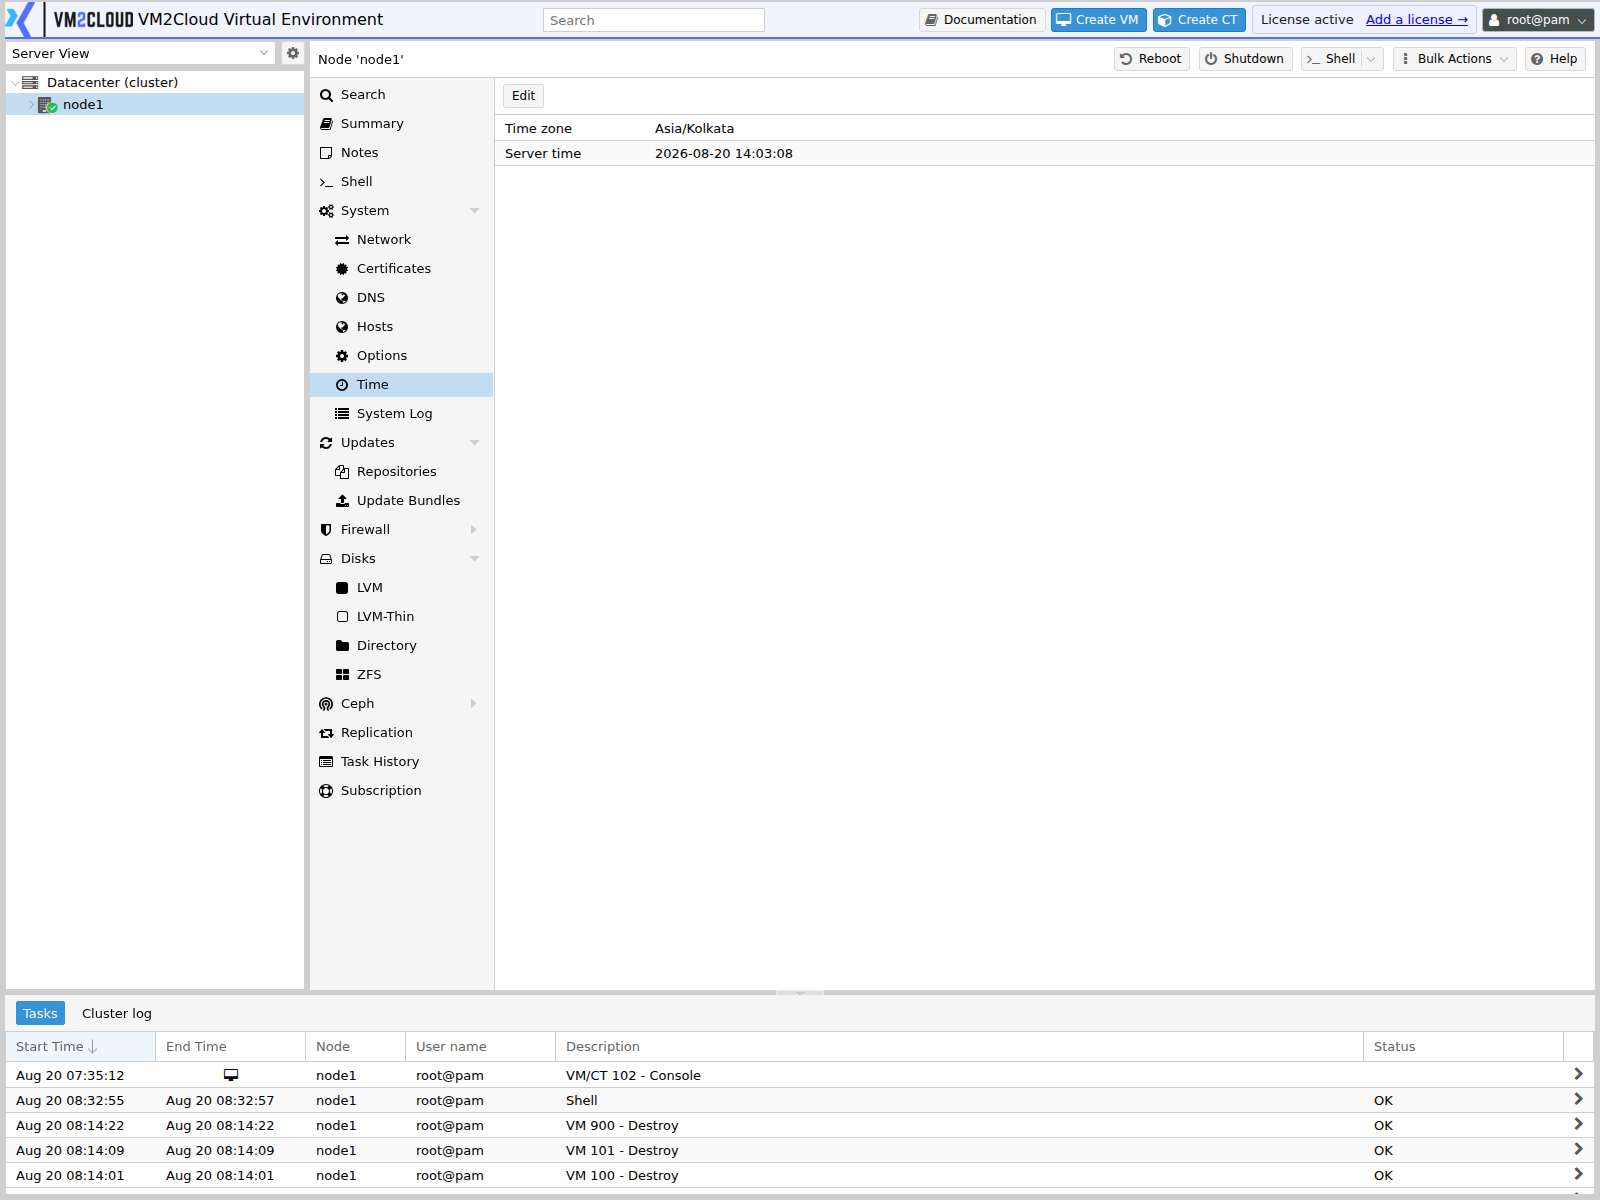
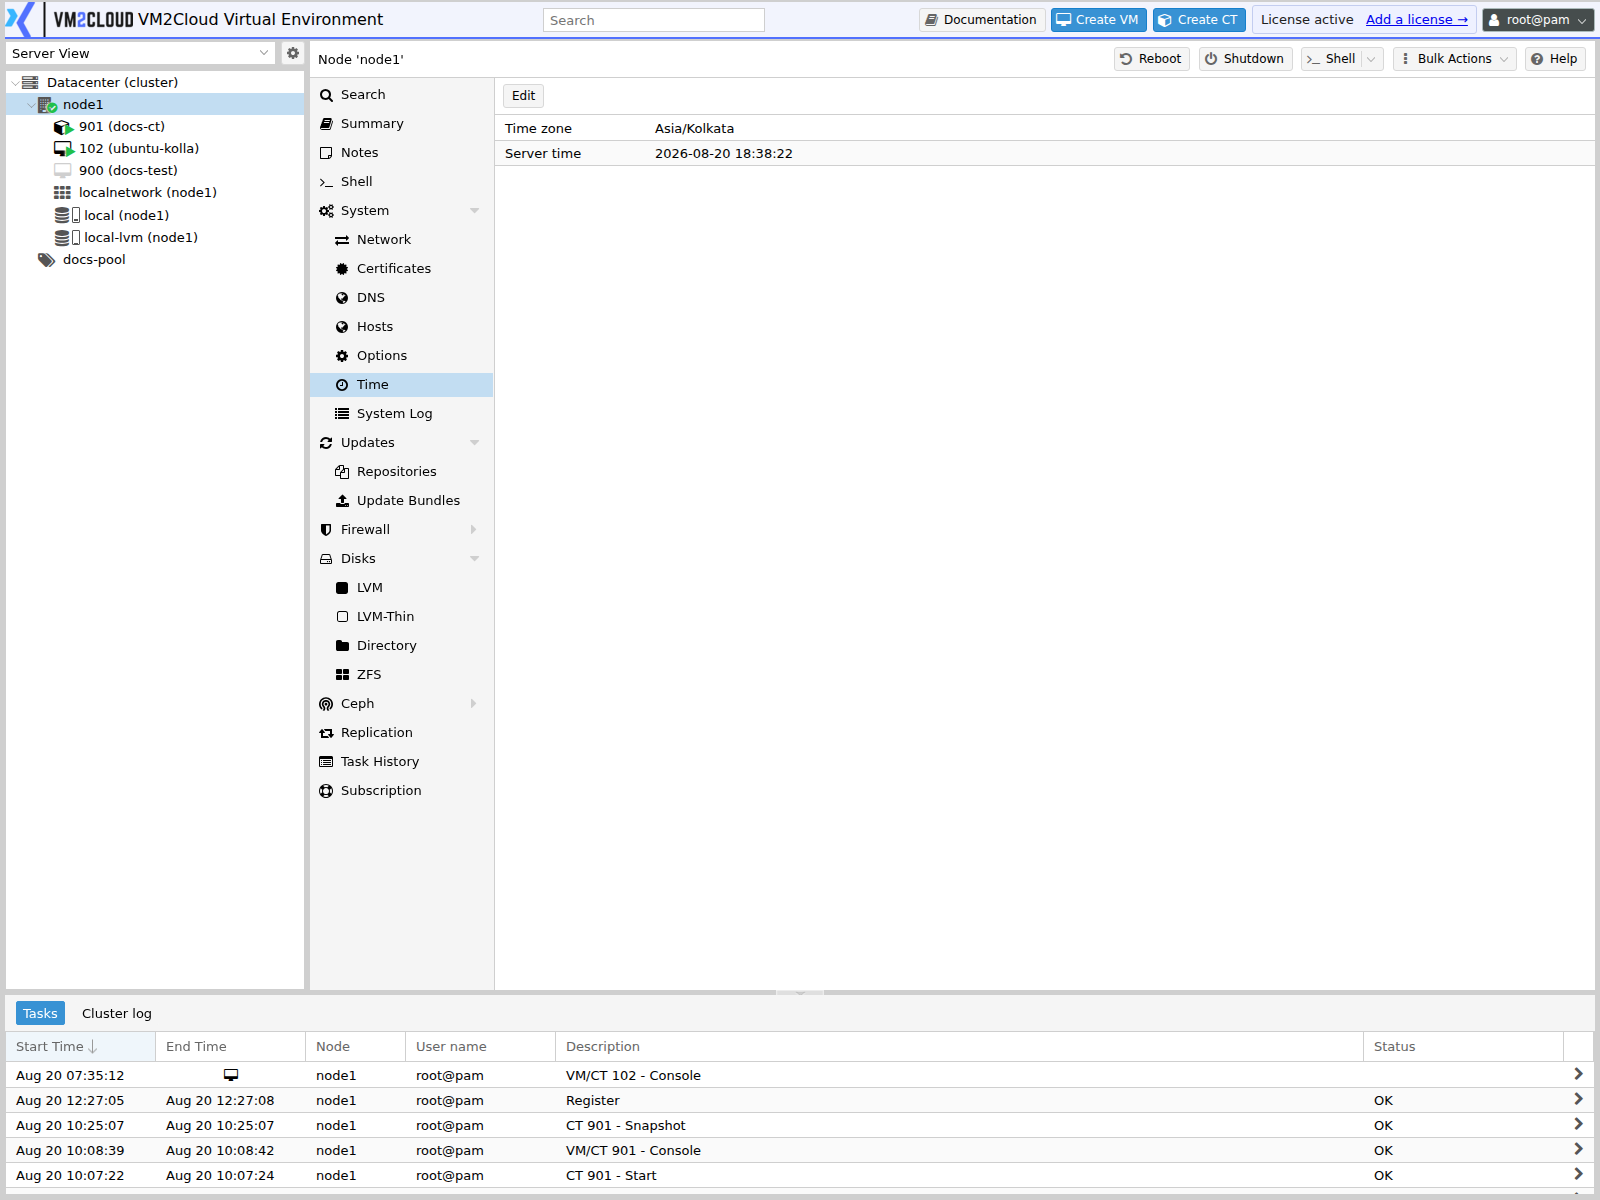
Time panel has no NTP section; capture My Settings
The node Time panel holds exactly two rows - Time zone and Server time - and a
single Edit control. There is no Network Time section, no NTP server list, and
no synchronisation status anywhere in the interface.

Time-and-NTP.md had five screenshots and three procedure sections describing
that interface. All removed, and the page now ends with what is actually true:
synchronisation is handled by the system time daemon and configured from the
shell, with timedatectl as the way to check it. The point that a skewed clock
surfaces as a join failure or a certificate error, rather than as an obvious
time problem, is kept - that is the part worth knowing.

My Settings is a dialog rather than a panel, holding language, colour theme,
and resource-tree preferences. Password and two-factor are separate entries on
the same user menu, not tabs within it.

Placeholder delta: -6.

diff --git a/03-Nodes/System/Time-and-NTP.md b/03-Nodes/System/Time-and-NTP.md
@@ -119,34 +119,9 @@ Typical information includes:
 
 ---
 
-### Screenshot 3
-
-**Network Time Section**
-
-```text
-[ Place Screenshot Here ]
-```
-
-> **Capture:** The NTP portion of the Time page — service status and configured servers.
-
----
-
 ## Step 2: Review the Configuration
 
 Review the displayed information to ensure the node is synchronizing correctly.
-
----
-
-### Screenshot 4
-
-**Synchronization Status**
-
-```text
-[ Place Screenshot Here ]
-```
-
-> **Capture:** The same section showing the current time source and last
-> synchronization.
 
 ---
 
@@ -158,46 +133,6 @@ Review the displayed information to ensure the node is synchronizing correctly.
 
 ---
 
-### Screenshot 5
-
-**Edit Network Time**
-
-```text
-[ Place Screenshot Here ]
-```
-
-> **Capture:** The **Edit** control for the Network Time section.
-
----
-
-## Step 2: Configure the NTP Servers
-
-Enter the required NTP server addresses.
-
-Typical examples include:
-
-- pool.ntp.org
-- time.google.com
-- time.cloudflare.com
-- Your organization's internal NTP server
-
-Click **OK** to save the configuration.
-
----
-
-### Screenshot 6
-
-**NTP Server Configuration**
-
-```text
-[ Place Screenshot Here ]
-```
-
-> **Capture:** The NTP edit dialog with servers entered, showing exactly how multiple
-> servers are separated.
-
----
-
 ## Step 3: Verify Time Synchronization
 
 After saving the configuration:
@@ -205,19 +140,6 @@ After saving the configuration:
 - Verify that the NTP service is running.
 - Confirm that the node synchronizes with an NTP server.
 - Ensure the displayed system time is correct.
-
----
-
-### Screenshot 7
-
-**Verified Synchronization**
-
-```text
-[ Place Screenshot Here ]
-```
-
-> **Capture:** The Time page after saving, showing the node synchronized and the time
-> correct.
 
 ---
 
@@ -286,3 +208,29 @@ Verify the following:
 # Summary
 
 The **Time** page allows administrators to review and configure the system date, time, time zone, and NTP synchronization for a VM2Cloud VE node. Maintaining accurate, synchronized time across all nodes improves cluster stability, ensures accurate logging, and supports reliable operation of authentication, scheduling, backup, and High Availability services.
+
+---
+
+# Time Synchronisation
+
+**The interface does not configure time synchronisation.** The Time panel sets the time
+zone and reports the server time — nothing more. Synchronisation is handled by the system
+time daemon and is configured from the shell.
+
+Check what the node is doing:
+
+```bash
+timedatectl status
+```
+
+`System clock synchronized: yes` and `NTP service: active` are what a healthy node reports.
+To change the servers, edit the time daemon's configuration and restart it:
+
+```bash
+systemctl restart systemd-timesyncd
+timedatectl timesync-status
+```
+
+This matters more than its brief mention suggests. Cluster communication and certificate
+validation both depend on agreeing clocks, and a skewed clock surfaces as a join failure
+or a certificate error rather than as an obvious time problem.

diff --git a/01-Getting-Started/My-Settings.md b/01-Getting-Started/My-Settings.md
@@ -66,11 +66,11 @@ For a `@pam` account this changes the underlying Linux password on the node. For
 
 **Change Password**
 
-```text
-[ Place Screenshot Here ]
-```
+![Change Password](images/my-settings.png)
 
-> **Capture:** The password change dialog opened from the user menu.
+**My Settings** opens as a dialog rather than a panel, holding the personal preferences —
+the interface language, colour theme, and the resource-tree behaviour. Password and
+two-factor enrolment are separate entries on the same user menu.
 
 ---
 
